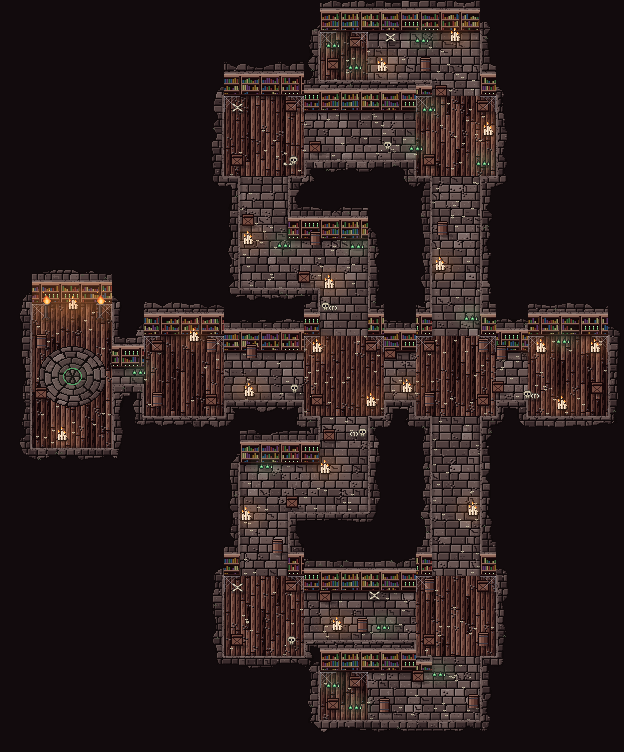
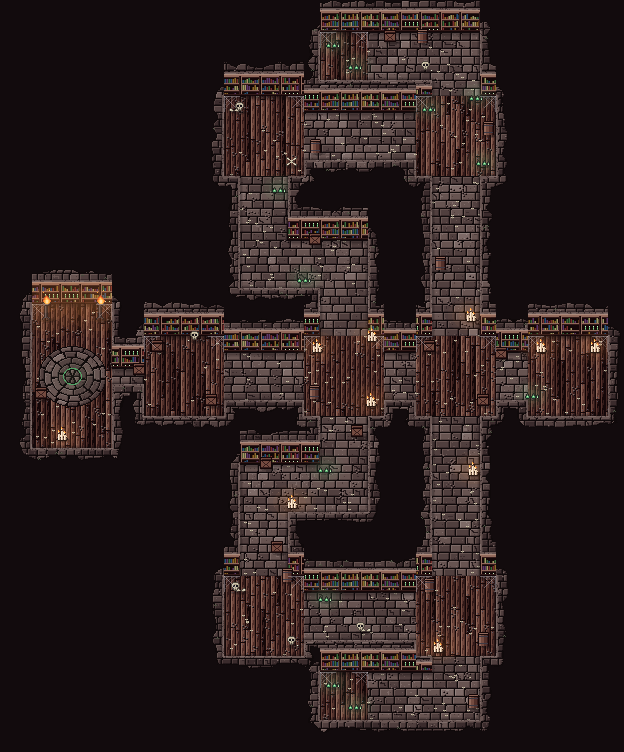
Act maps: fewer props
Props still felt too frequent (user feedback):
- wall scatter 55 -> 30 per map, at least 26 dots apart (was 18)
- non-tall room props go in two opposite corners only (was four)
No props spill onto walls on any of the ten maps. Art version 20261004c.

Claude-Session: https://claude.ai/code/session_01MC7S7ZLKKgdsF9BsD8h1Gx

diff --git a/index.html b/index.html
@@ -1453,7 +1453,7 @@
 <script defer src="data/shrines.js?v=20260817-battlefield1"></script>
 <script defer src="data/maps.js?v=20260719-tier-rift-stack1&cosmos=20260814-balance1&trial=20260814-bloom1&pinnacle=20260814-atlas1&tune=20260815-bloom2&trial5=20260816-underworld1&directives=20260817-1&journal=20260820-arcana2&roadmap=20260821-2&map-tabs=20260823-1&trial-hazard=20260901-1&square-map=20260901-3&rival31=20260902-1&refinement=20260906-1&treasure=20260907-1&story-fx=20260909-1&expedition-review=20260914-2&act-maps=20260915-soft-grid&skill-delta2=20260930-15&aux=20260930-7&aux=20260930-8&aux=20261001-1&aux=20261001-16&aux=20261001-17&aux=20261001-18&aux=20261002-4"></script>
 <script defer src="data/story-journal.js?v=20260929-bridge1"></script>
-<script defer src="data/act-exploration-maps.js?v=20260922-1&aux=20261002-20&aux=20261002-21&aux=20261002-30&maps=20261002-1&sight=20261004-1&vis=20261004-1&props=20261004-1"></script>
+<script defer src="data/act-exploration-maps.js?v=20260922-1&aux=20261002-20&aux=20261002-21&aux=20261002-30&maps=20261002-1&sight=20261004-1&vis=20261004-1&props=20261004-1props=20261004-2"></script>
 <script defer src="data/cosmos-route.js?v=20260909-8&aux=20261001-17&aux=20261002-1"></script>
 <script defer src="data/exploration-regions.js?v=20260930-8"></script>
 <script defer src="data/atlas.js?v=20260930-15&aux=20261001-16&aux=20261001-17&maps=20261002-1&late=20261002-1&review=20261002-1"></script>

diff --git a/data/act-exploration-maps.js b/data/act-exploration-maps.js
@@ -143,7 +143,7 @@ const ACT_EXPLORATION_BACKDROPS = Object.freeze({
 });
 // Version of the backdrop and gate pictures, added to their URLs (js/canvas-exploration-art.js) so a redrawn map is never
 // served from the browser's image cache. Bump it with every --write.
-const ACT_EXPLORATION_ART_VERSION = '20261004b';
+const ACT_EXPLORATION_ART_VERSION = '20261004c';
 // Sight around the hero in tiles (walked through floor, js/act-exploration-map.js visibleCells). Ground inside it is clear and the
 // fog starts past it (js/canvas-act-exploration.js fogAlpha). 2026-10-02: 5 → 6 (user: the view felt cramped). 2026-10-04: the sixth
 // tile was still dimmed (the fog began a tile inside and the unseen fog bled over it), so only the monsters showed there.
